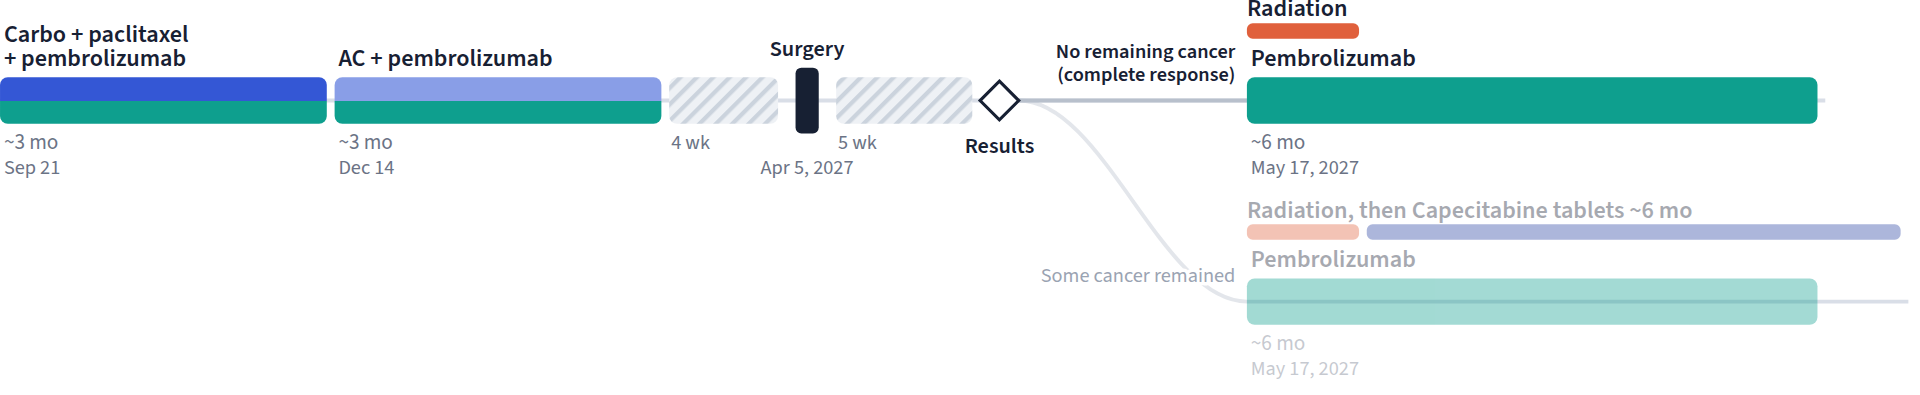
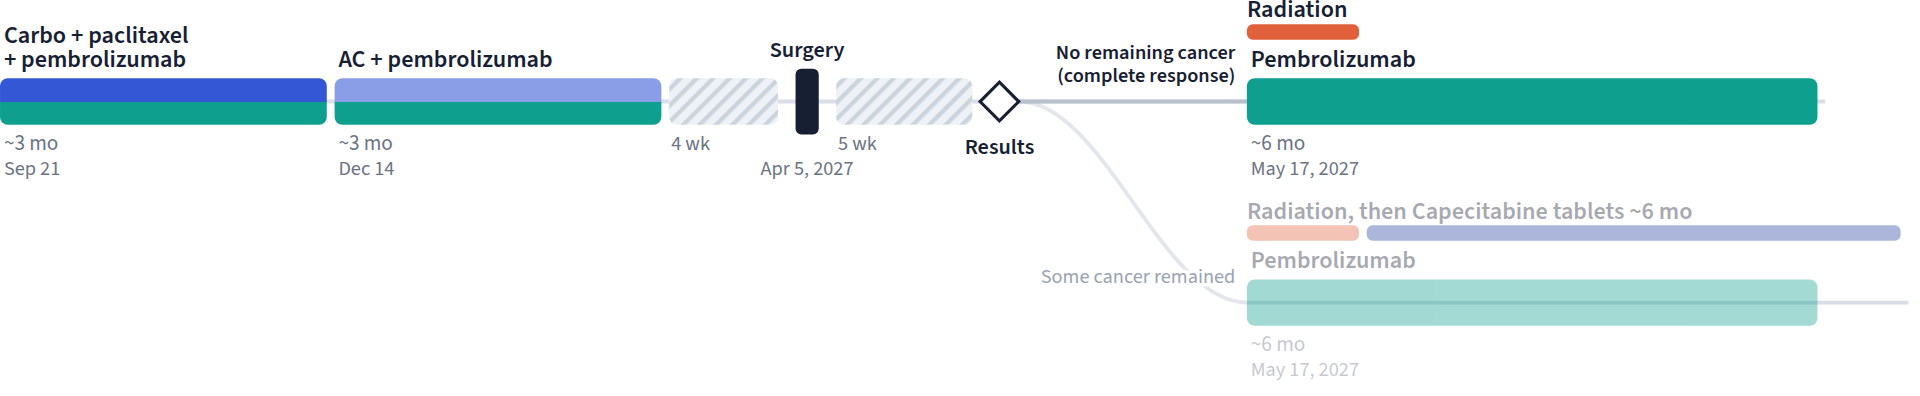
Landing page: example images re-rendered from the 0.22.1 library
The three hero handouts (KEYNOTE-522, EV-303, FLOT) and the KEYNOTE-522
map were rendered before the callout change, the map-frame fix and the
two step-text passes, so they showed step descriptions that no longer
exist and the old alongside-step parentheses. Re-rendered by the same
script at the same sizes; FLOT's page is 60px shorter now that its
descriptions are, and the declared height on index.html follows. The
comparison and decision images were re-rendered too and came out
pixel-identical, so they are unchanged.

Claude-Session: https://claude.ai/code/session_01Y3Tfh74JNeao5syQge4XYJ

diff --git a/index.html b/index.html
@@ -44,7 +44,7 @@
     <div class="hsview" id="hsview">
       <a class="heroimg hsslide on" id="hs-0" role="tabpanel" aria-labelledby="hstab-0" href="app.html#r=kn522&demo=1" aria-label="Open the triple-negative breast cancer example"><img src="hero.png" alt="A Roadbook treatment map for stage II to III triple-negative breast cancer: chemo-immunotherapy, surgery, a pathology decision point, then immunotherapy" width="2112" height="2016"></a>
       <a class="heroimg hsslide" id="hs-1" role="tabpanel" aria-labelledby="hstab-1" href="app.html#r=ev303&demo=1" aria-label="Open the muscle-invasive bladder cancer example"><img data-src="hero-ev303.png" alt="A Roadbook treatment map for muscle-invasive bladder cancer: enfortumab vedotin with pembrolizumab, cystectomy, then more of both" width="2112" height="1316"></a>
-      <a class="heroimg hsslide" id="hs-2" role="tabpanel" aria-labelledby="hstab-2" href="app.html#r=flot&demo=1" aria-label="Open the stomach and gastroesophageal junction cancer example"><img data-src="hero-flot.png" alt="A Roadbook treatment map for stomach or gastroesophageal junction cancer: FLOT chemotherapy with durvalumab, surgery, then more of both" width="2112" height="1544"></a>
+      <a class="heroimg hsslide" id="hs-2" role="tabpanel" aria-labelledby="hstab-2" href="app.html#r=flot&demo=1" aria-label="Open the stomach and gastroesophageal junction cancer example"><img data-src="hero-flot.png" alt="A Roadbook treatment map for stomach or gastroesophageal junction cancer: FLOT chemotherapy with durvalumab, surgery, then more of both" width="2112" height="1484"></a>
     </div>
     <p class="hscap" id="hscap" aria-live="polite">Triple-negative breast cancer, stage II to III &middot; KEYNOTE-522</p>
   </div>
@@ -64,7 +64,7 @@
     <div class="ba-col"><h3>A treatment calendar</h3>
       <ul class="cal"><li><time>Sep 7</time>Infusion</li><li><time>Sep 14</time>Infusion</li><li><time>Sep 21</time>Infusion</li><li><time>Sep 28</time>Infusion, labs</li><li><time>Oct 5</time>Infusion</li><li class="more">…</li><li><time>Mar 22</time>Surgery</li><li><time>Apr 5</time>Pathology results</li><li class="q">then?</li></ul>
     </div>
-    <div class="ba-col wide"><h3>A treatment map</h3><div class="mapscroll"><img src="route-kn522.png" alt="The same plan as a map: two chemotherapy phases, surgery, a pathology fork, and immunotherapy" width="1920" height="395"></div><p class="swipe">Swipe sideways to see the whole map.</p></div>
+    <div class="ba-col wide"><h3>A treatment map</h3><div class="mapscroll"><img src="route-kn522.png" alt="The same plan as a map: two chemotherapy phases, surgery, a pathology fork, and immunotherapy" width="1920" height="396"></div><p class="swipe">Swipe sideways to see the whole map.</p></div>
   </div>
   <p class="pull">A calendar tells you when. A map shows you where you're going.</p>
 </div></section>
